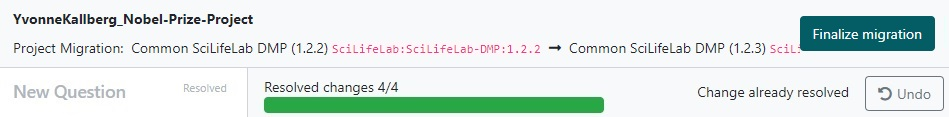
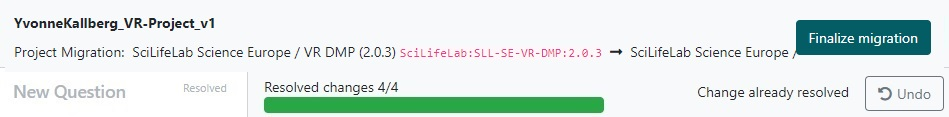
Update to SciLifeLab VR DMP
Major update of both file names and fig contents, when shifting from Common ScilifeLab DMP to SciLifeLab VR DMP.

Changed region(s): [[0.0, 0.1282, 1.0, 0.5128], [0.0, 0.1026, 0.275, 0.2564], [0.0, 0.5641, 1.0, 0.5897]]

diff --git a/dsw_instructions/export_project.html b/dsw_instructions/export_project.html
@@ -1,0 +1,85 @@
+<!DOCTYPE html>
+<html>
+  <head>
+    <meta charset="UTF-8">
+    <title>Data Stewardship Wizard</title>
+    <link href="../_css/appendix_prod.css" rel="stylesheet">
+    <script src="./choose_css.js"></script>
+  </head>
+  <body>
+	<div class="public">
+      <nav class="navbar navbar-expand-sm bg-primary fixed-top">
+        <div class="container">
+          <div class="navbar-header">
+            <a class="navbar-brand" href="/">
+              <img src="/img/logo.svg" alt="SciLifeLab logo">
+              Data Stewardship Wizard
+            </a>
+          </div>
+          <ul class="nav navbar-nav ml-auto">
+            <li class="nav-item">
+              <a class="navbar-brand" href="/projects">Go to App</a>
+            </li>
+          </ul>
+		</div>
+      </nav>
+	</div>
+    <div class="container">
+      <div class="Public_BookReference">
+        <h1>Instructions on how to create a DMP for a Project</h1>
+		    <p>
+          When all questions are answered, you can create a Data Management Plan (DMP) file 
+          (a.k.a. a Document) <br>
+          First, click on <b>Settings</b> in the top navigation bar.
+          <br><br><img src="./export_settings.jpg" alt="export_settings_image"><br><br>
+          <ul>
+            <li>The <b>Name</b> field is prefilled with the name of the questionnaire, but we recommend 
+              to add an identifier to give this version of the DMP a unique name (eg a number, 
+              the project phase, funder, date, etc).
+            </li>
+            <li>Next, select a <b>template</b> (has directions on what to include in the DMP): 
+              <code>SciLifeLab Vetenskapsrådet DMP</code>
+            </li>
+            <li>Finally, when a template is selected, a set of <b>file formats</b> is shown. Click on the file 
+              format you want (typically PDF or MS Word), and then click <b>Save</b>.
+            </li>
+          </ul>
+		    </p> 
+    
+    <p><br>
+      Click on <b>Documents</b> in the top navigation bar, and then on <b>New document</b>. 
+      <br><br><img src="./export_document_create.jpg" alt="export_document_create_image"><br><br>
+      Inspect the name, template and file format, then click on <b>Create</b>. 
+      <br><i>Note: It is possible to change the file format also here, it is only the template 
+      that needs to be selected via Settings.</i>
+    </p>	
+    <img src="./export_document_view.jpg" alt="export_document_view_image">
+    <p><br><br>In order to download the document, click on the three vertical dots right-most to the name of the
+      document and select <b>Download</b> in the appearing menu. 
+      </p>
+    <img src="./export_document_download.jpg" alt="export_document_download_image">
+      </div>
+    </div>
+	<div class="public">
+      <nav class="navbar navbar-expand-sm bg-primary fixed-bottom">
+        <div class="container">
+          <div class="navbar-footer">
+            <ul class="nav navbar-nav ml-auto">
+		      <li class="nav-item">
+		        <a class="navbar-brand" href="./">Up</a>
+			  </li>
+			</ul>			
+          </div>
+          <ul class="nav navbar-nav ml-auto">
+			<li class="nav-item">
+			  <a class="navbar-brand" href="./new_project.html">Previous</a>
+			</li>
+            <li class="nav-item">
+              <a class="navbar-brand" href="./migrate_project.html">Next</a>
+            </li>
+          </ul>
+        </div>
+      </nav>
+	</div>
+  </body>
+</html>

diff --git a/sample_metadata/minseqe.html b/sample_metadata/minseqe.html
@@ -1,0 +1,65 @@
+<!DOCTYPE html>
+<html>
+  <head>
+    <meta charset="UTF-8">
+    <title>Data Stewardship Wizard</title>
+    <link href="../_css/appendix_prod.css" rel="stylesheet">
+    <script src="./choose_css.js"></script>
+  </head>
+  <body>
+		<div class="public">
+      <nav class="navbar navbar-expand-sm bg-primary fixed-top">
+        <div class="container">
+          <div class="navbar-header">
+            <a class="navbar-brand" href="/">
+              <img src="/img/logo.svg" alt="SciLifeLab logo">
+              Data Stewardship Wizard
+            </a>
+          </div>
+          <ul class="nav navbar-nav ml-auto">
+            <li class="nav-item">
+              <a class="nav-link" href="/projects">Go to App</a>
+            </li>
+          </ul>
+        </div>
+      </nav>
+      <div class="container">
+        <div class="Public_BookReference">
+          <div>
+            <h1>MINSEQE</h1>
+            <p>
+                <a href="http://fged.org/projects/minseqe/">Minimal Information about a high-throughput Nucleotide 
+                    SeQuencing Experiment</a><br>
+                <h3>Sample annotation </h3>
+                Essential sample annotation, including the experimental factors (e.g. “compound” and “dose”) 
+                and their values.<br>
+                Essential information about the biological system from which samples were taken must be 
+                given, e.g. the organism, strain or cultivar (if known and if appropriate), the organism 
+                part or tissue, and what treatment(s) was/were applied.
+                <h3> Raw reads </h3>
+                The set of read sequences and base=level quality scores for each assay, as generated by the 
+                sequencing instrument, in a recognized format.
+                <h3>Processed data</h3>
+                Typically a tabular output
+                <h3>Experiment and sample-data relationships</h3>
+                Summary of the experiment and its goals, contact information, and any associated publication.<br> 
+                Part of this description should be a table specifying sample=data relationships, i.e. which sample 
+                has led to which raw data file or which data element in the processed data files. 
+                <h3>Experimental and data processing protocols</h3>
+                Description of how the nucleic acid samples were isolated, purified and processed prior to sequencing.<br>
+                It is recommended that a summary of the instrumentation used, library preparation strategy, labelling 
+                and amplification methodologies, alignment algorithms and data filtering used be provided. <br>
+                Data processing and analysis protocols must be described in sufficient detail to enable unambiguous 
+                data interpretation and to enable scientists to reproduce the analysis steps.  This should include, 
+                but is not limited to, data rejection methods, data correction methods, alignment methods, data 
+                smoothing and filtering methods and identifiers used for reference genomes to which the sequences 
+                were mapped (when applicable).
+
+
+            </p>                
+          </div>
+        </div>
+      </div>
+		</div>
+	</body>
+</html>

diff --git a/dsw_instructions/index.html b/dsw_instructions/index.html
@@ -33,30 +33,31 @@
             <h2>Terminology</h2>
             
             <p>
-              First some definitions are in place:
-			  <ul>
-              <li>Knowledge Model = data management plan template; this is the questions that 
-			  will be asked and the guidance given to help you answer the questions</li>
-			  <li>Questionnaire = an individual data management plan, i.e. the questions with your answers</li>
-            </ul>
+              First some definitions are in order:
+			        <ul>
+                <li>Knowledge Model = data management plan template; this is the questions that 
+			              will be asked and the guidance given to help you answer the questions</li>
+			          <li>Questionnaire = an individual data management plan, i.e. the questions with your answers</li>
+              </ul>
             </p>
             
-			<h2> How to: </h2>
-			<p>
-			<ul>
-              <li><a href="./get_started_questionnaire.html"> Create a Questionnaire </a></li>
-			  <li><a href="./export_questionnaire.html"> Create a DMP document from a Questionnaire </a></li>
-			  <li><a href="./migrate_questionnaire.html"> Update an outdated Questionnaire </a></li>
-			  <li><a href="./clone_questionnaire.html"> Create a copy of existing Questionnaire </a></li>
-			  <li><a href="https://dsw-docs.readthedocs.io/en/latest/user/tutorial.html"> Work with the Knowledge Model Editor (external link for Data Stewards)</a>
-			 </ul>
+			      <h2> How to: </h2>
+			      <p>
+			      <ul>
+              <li><a href="./new_project.html"> Create a Project </a></li>
+		      	  <li><a href="./export_project.html"> Create a DMP document for a Project </a></li>
+		      	  <li><a href="./migrate_project.html"> Update an outdated Project </a></li>
+		      	  <li><a href="./clone_project.html"> Create a copy of existing Project </a></li>
+		      	  <li><a href="https://dsw-docs.readthedocs.io/en/latest/user/tutorial.html"> Work with the Knowledge Model Editor (external link for Data Stewards)</a>
+		    	  </ul>
 
-			</p>
-      <h2>See also:</h2> 
-      <p>A <a href="https://www.youtube.com/watch?v=aGpr6JFMuiE"><b>Youtube video clip</b></a>
-      from a workshop organized by the <a href="https://ds-wizard.org/">
-        <b>team</b></a> who developed DS Wizard. The video clip demonstrates the functionality 
-        both from a researchers as well as a data stewards point of view. </p>                
+		    	  </p>
+            <h2>See also:</h2> 
+            <p>A <a href="https://www.youtube.com/watch?v=aGpr6JFMuiE"><b>Youtube video clip</b></a>
+              from a workshop organized by the <a href="https://ds-wizard.org/">
+              <b>team</b></a> who developed DS Wizard. The video clip demonstrates the functionality 
+              both from a researchers as well as a data stewards point of view. 
+            </p>                
           </div>
         </div>
       </div>

diff --git a/dsw_instructions/new_project.html b/dsw_instructions/new_project.html
@@ -27,22 +27,22 @@
     <div class="container">
       <div class="Public_BookReference">
         <h1>Instructions on how to start writing a DMP</h1>
-		<br><br><img src="./click_create_questionnaire.jpg" alt="click_create_questionnaire_image"><br><br>
-			
-        <h2>1. Click on <b>Projects</b> in left-side menu</h2><br>
-						
-		<h2>2. Click on <b>Create</b> in the top right corner</h2>
-		<br>
-		<h2>3. Name the questionnaire and select Knowledge Model </h2>
-		<p><ul>
-              <li>Write a Name based on your name and project, so it is easy to find later </li>
-			  <li>Select "Common SciLifeLab DMP 1.2.3" (or the highest version number) as Knowledge Model</li>
-			  <li>Click on <b>Save</b> and begin answering the questions</li>
-			</ul>
-			<b>Note:</b> Select the SNIC tag if you only want to see questions of interest in a SNIC application.<br><br>
-		</p>
-		<img src="./select_km_questionnaire.jpg" alt="select_km_questionnaire_image">
-                      
+        <p>
+        <ol>
+          <li>Click on <b>Projects</b> in left-side menu</li>
+          <li>Click on <b>Create</b> in the top right corner</li>
+          <br><img src="./create_project.jpg" alt="create_project_image"><br><br>
+          <li>Name the questionnaire and select Knowledge Model</li>
+          <ul>
+            <li>Write a Name based on your name and project, so it is easy to find later </li>
+            <li>Select <code>SciLifeLab Science Europe / VR DMP 2.0.3</code> (or the highest version number) as Knowledge Model</li>
+            <li>Click on <b>Save</b> and begin answering the questions</li>
+          </ul>
+          <br>
+          <img src="./create_select_km.jpg" alt="create_select_km_image"><br><br>
+          <b>Note:</b> Select the SNIC tag if you only want to see questions of interest in a SNIC application.
+        </ol>
+		    </p>
       </div>
     </div>
 	<div class="public">
@@ -57,7 +57,7 @@
 		  </div>
 		  <ul class="nav navbar-nav ml-auto">
 			<li class="nav-item">
-			  <a class="navbar-brand" href="./export_questionnaire.html">Next</a> 
+			  <a class="navbar-brand" href="./export_project.html">Next</a> 
 			</li>
           </ul>
 		</div>

diff --git a/dsw_instructions/migrate_project.html b/dsw_instructions/migrate_project.html
@@ -26,12 +26,12 @@
       <div class="container">
         <div class="Public_BookReference">
           <h1>Instructions on how to update an outdated Questionnaire</h1>
-			<p> When new versions of a Knowledge Model is released, questionnaires based on 
+			<p> When new versions of a Knowledge Model is released, projects based on 
 			earlier versions becomes marked as outdated. You don't <i>have to</i> do anything, 
 			but hopefully the newer Knowledge Model has an improved value, with new 
-			questions or better guidance. In order to make the questionnaire
+			questions or better guidance. In order to make the project
 			up-to-date, you can use the <b>Create Migration</b> function.<br></p>
-			<img src="./migration_questionnaire.jpg" alt="migration_questionnaire_image">
+			<img src="./migration_project.jpg" alt="migration_project_image">
 			<br><br>
 			<h2>First step</h2>
 			<p>In the first dialogue window, select the highest version number as New Version 
@@ -58,7 +58,7 @@
 			<p>
 			When all changes has been resolved, an option to <b>Finalize Migration</b> will become 
 			visible in the top right corner, click on it to finish the update. This will open the updated
-			questionnaire. <br><br></p>
+			project. <br><br></p>
 			<img src="./migration_3_dialogue.jpg" alt="migrate_step3_image">
         </div>
       </div>
@@ -75,10 +75,10 @@
           </div>
           <ul class="nav navbar-nav ml-auto">
 			<li class="nav-item">
-			  <a class="navbar-brand" href="./export_questionnaire.html">Previous</a>
+			  <a class="navbar-brand" href="./export_project.html">Previous</a>
 			</li>
             <li class="nav-item">
-              <a class="navbar-brand" href="./clone_questionnaire.html">Next</a>
+              <a class="navbar-brand" href="./clone_project.html">Next</a>
             </li>
           </ul>
         </div>

diff --git a/dsw_instructions/clone_project.html b/dsw_instructions/clone_project.html
@@ -25,19 +25,19 @@
       </nav>
       <div class="container">
         <div class="Public_BookReference">
-            <h1>Instructions on how to create a copy of existing Questionnaire</h1>
-			<p> If you want to have different versions of a questionnaire, e.g. one version when applying for
+            <h1>Instructions on how to create a copy of existing Project</h1>
+			<p> If you want to have different versions of a project, e.g. one version when applying for
 			grant, one version during project, and one version at the end of the project, this is possible
 			using the <b>Clone</b> function: <br>
 			</p>
-			<img src="./clone_questionnaire.jpg" alt="clone_questionnaire_image">
+			<img src="./clone_project.jpg" alt="clone_project_image">
 			
 			<p> <br><br>
-			The clone will get the prefix 'Copy of ' as name (e.g. 'Copy of YvonneKallberg_Nobel-Prize-Project_v1'). 
-      To change the name, click on it to open the questionnaire, then click on <b>Settings</b> in the 
+			The clone will get the prefix 'Copy of ' as name (e.g. 'Copy of YvonneKallberg_VR-Project_v1'). 
+      To change the name, click on it to open the project, then click on <b>Settings</b> in the 
       navigation bar at the top. Change the name (and possibly other settings) and click on <b>Save</b>.<br>
 			</p>
-			<img src="./clone_edit_questionnaire.jpg" alt="clone_edit_questionnaire_image">
+			<img src="./clone_settings.jpg" alt="clone_settings_image">
         </div>
       </div>
 	</div>
@@ -53,7 +53,7 @@
           </div>
           <ul class="nav navbar-nav ml-auto">
 			<li class="nav-item">
-			  <a class="navbar-brand" href="./migrate_questionnaire.html">Previous</a>
+			  <a class="navbar-brand" href="./migrate_project.html">Previous</a>
 			</li>
           </ul>
         </div>
